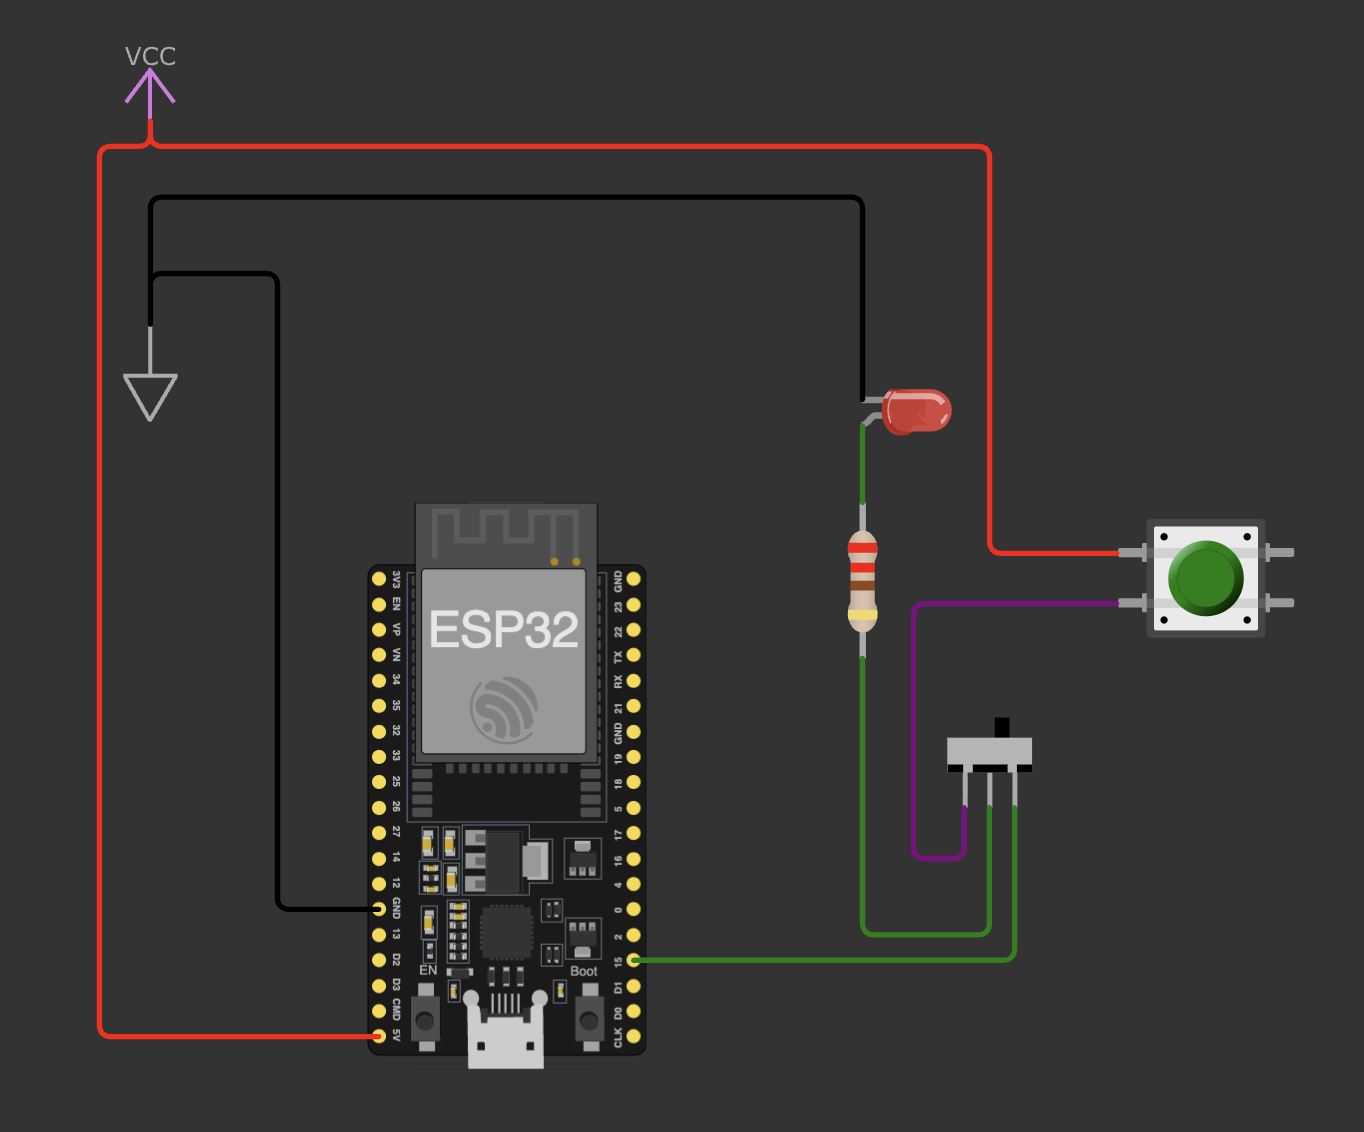
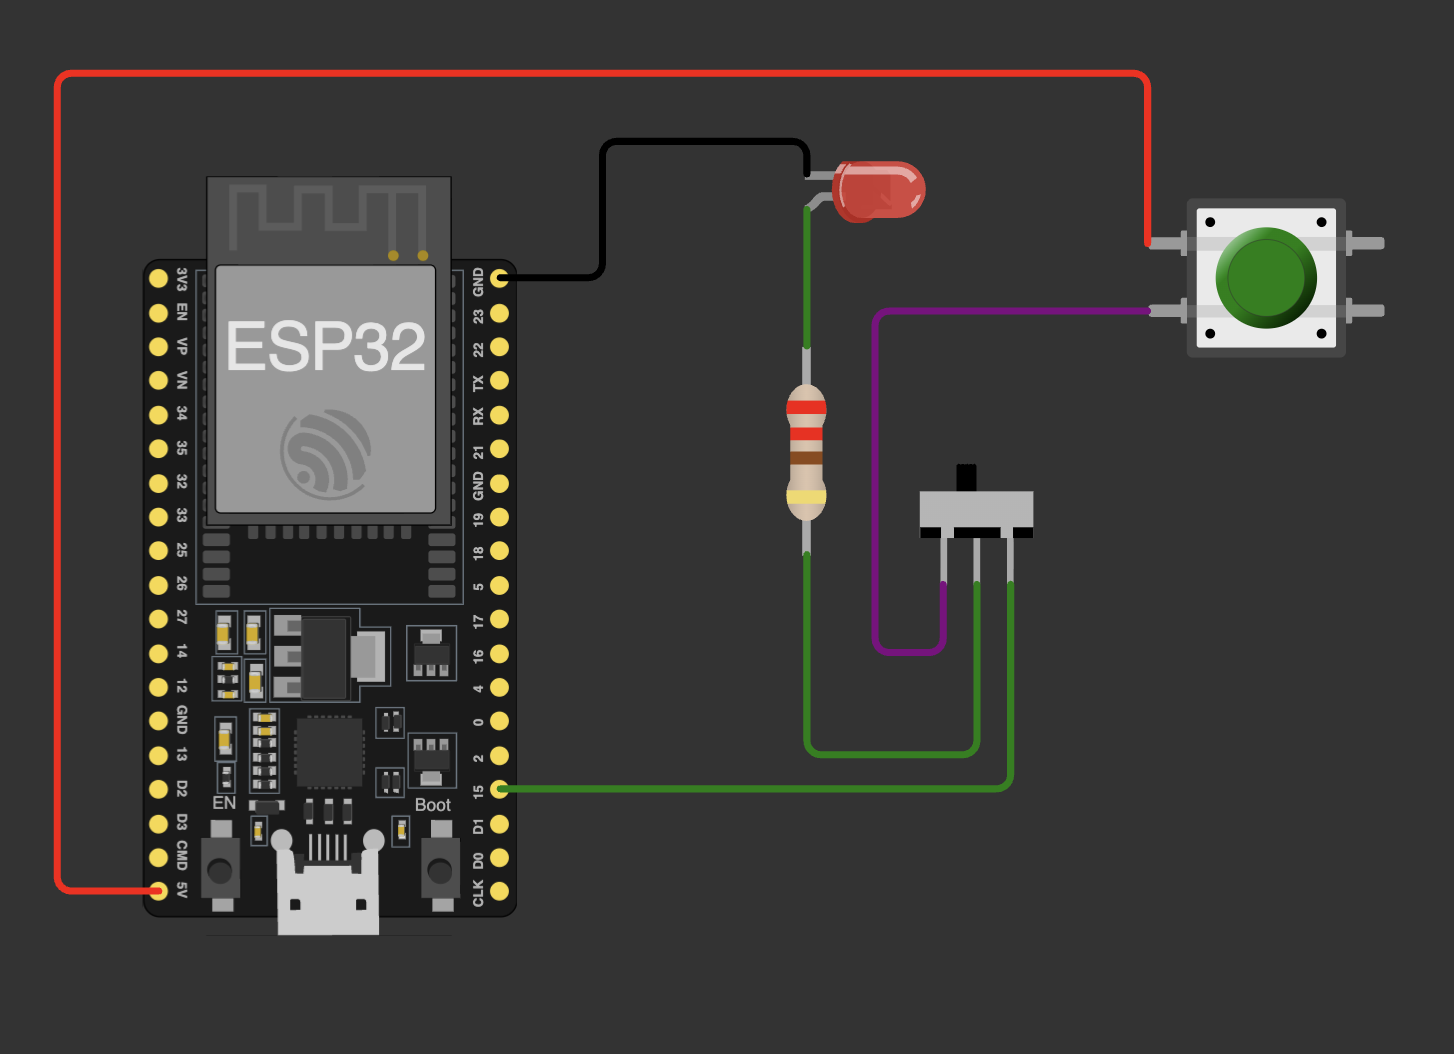
Adjust power sourcing for manual command isolation test 01
This change simplifies the test setup by deriving power for the manual control components (pushbutton, LED ground) directly from the ESP32's 5V and GND pins. This eliminates the need for separate external VCC/GND sources in the Wokwi simulation and clarifies the power instructions in the README, emphasizing the ESP32's USB-only power for this test.

Changed region(s): [[0.0308, 0.0304, 0.9545, 0.9715]]

diff --git a/tests/manual-command-isolation/01/README.md b/tests/manual-command-isolation/01/README.md
@@ -16,7 +16,7 @@ L'idee est de pouvoir piloter la meme charge (la LED de test) soit par le microc
 
 - GPIO15 de l'ESP32 : sortie de commande (clignotement dans le sketch de test)
 - Resistance 220 ohms + LED : charge de test visuelle
-- Bouton poussoir : commande manuelle qui envoie VCC
+- Bouton poussoir : commande manuelle qui envoie VCC (issu de l'ESP32 alimente en USB)
 - Interrupteur coulissant : selection de la source de commande
 
 Selon la position de l'interrupteur :
@@ -31,13 +31,11 @@ Selon la position de l'interrupteur :
 
 ## Point d'attention alimentation
 
-Ne pas alimenter l'ESP32 en meme temps par :
-- USB
-- et l'entree 5 V externe du montage
+Dans cette version du test, l'ESP32 est alimente uniquement par USB.
 
-Choisir une seule source d'alimentation a la fois. Une double alimentation peut provoquer des retours de courant entre sources, des comportements instables, voire endommager la carte ou le port USB.
+Ne pas reconnecter une alimentation 5 V externe en parallele de l'USB. Garder une seule source d'alimentation a la fois pour eviter les retours de courant, les instabilites et les risques de dommage materiel.
 
 ## Fichiers associes
 
 - Simulation Wokwi : [wokwi/diagram.json](wokwi/diagram.json)
-- Sketch de test : [wokwi/wokwi.ino](wokwi/sketch.ino)
+- Sketch de test : [wokwi/sketch.ino](wokwi/sketch.ino)